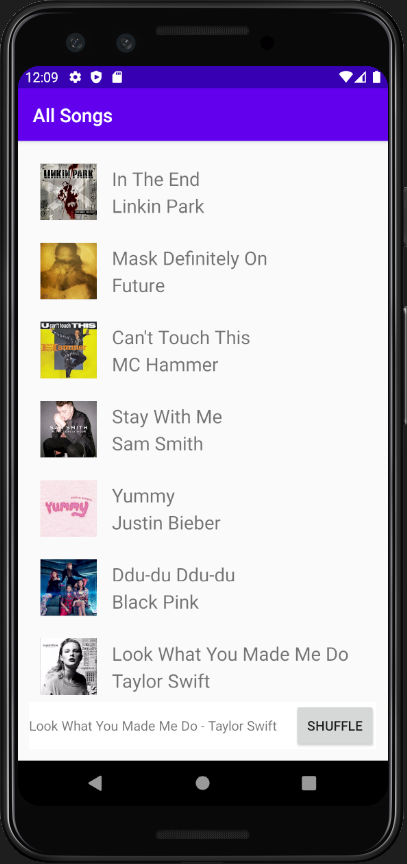
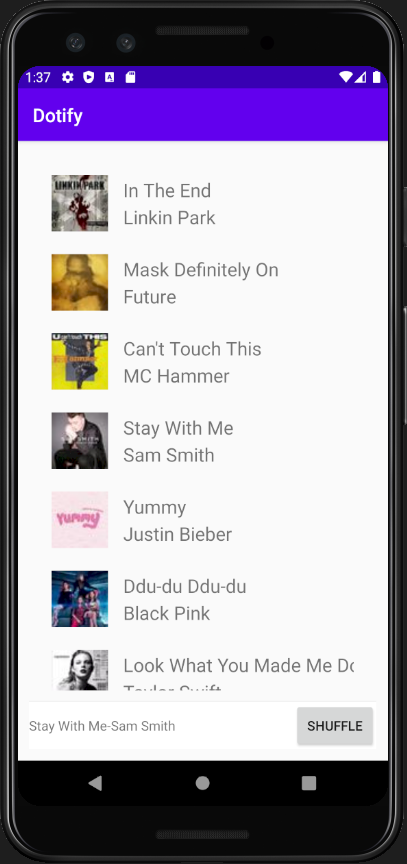
ReadMe Updated

diff --git a/README.md b/README.md
@@ -5,14 +5,14 @@ This is an app written in Kotlin for the Andriod Mobile Development class taught
 Author: Haoyang (Eric) Chen
 
 ## Description
-This app shows a music player app that displays a list of songs. In this list, the users can see the album's cover, song titles, and artist names. The user can select a particular song in the list, and click on the mini player container to view that particular song's album art, title, artist name, number of plays, and some media control buttons. The user can interact with the media control buttons to change users, increase the number of plays, and change the color of text. The user can also remove a song from the list by long pressing that song. 
+This app shows a music player app that displays a list of songs. In this list, the users can see the album's cover, song titles, and artist names. The user can select a particular song in the list, and click on the mini player container to view that particular song's album art, title, artist name, number of plays, and some media control buttons. The user can interact with the media control buttons to change users and increase the number of plays.
 
-## Extra credit
-I have completed extra credit #1, #2, and #3
+## Implementation
+Rebuilt the app using a single activity and fragments. Utilized activity lifecycle & back stack to ensure the consistency of data/state during the rotation of phone. Created a landscape layout for the rotation.
 
 ## Screenshot
-Two screenshots of the app running on a device emulator
+Screenshots of the app running on a device emulator
 
 <img src="./screenshot2.png" alt="Screenshot of the app" height="500" />
-<img src="./screenshot.png" alt="Screenshot of the app" height="500" />
+<img src="./screenshot.png" alt="Screenshot of the app"/>
 
